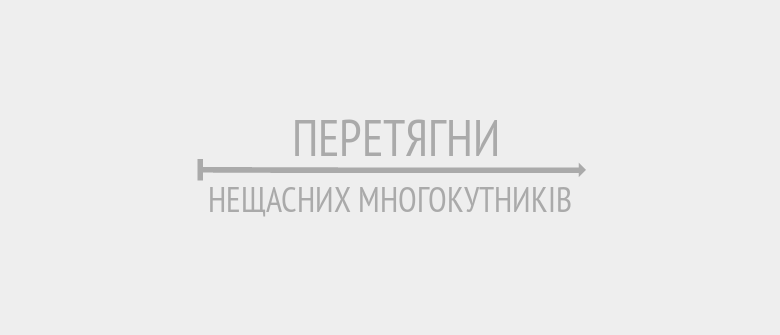
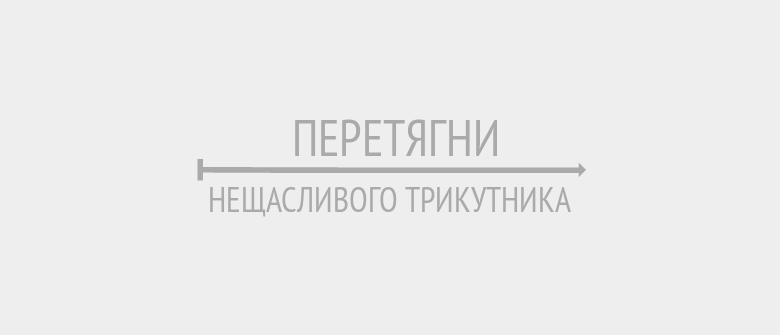
Text editing fixes

Changed region(s): [[0.3692, 0.5373, 0.7385, 0.6567]]

diff --git a/polygons/index.html b/polygons/index.html
@@ -6,19 +6,19 @@
 
 	<!-- Place this data between the <head> tags of your website -->
 	<title>Парабола многокутинків - ігровий пост про форму суспільства</title>
-	<meta name="description" content="Ігровий пост про те, як незлі вчинки можуть зробити світ злим." />
+	<meta name="description" content="Ігровий пост про те, як не злі вчинки можуть зробити світ злим." />
 	<link rel="icon" type="image/png" href="favicon.png">
 
 	<!-- Schema.org markup for Google+ -->
 	<meta itemprop="name" content="Парабола многокутників">
-	<meta itemprop="description" content="Ігровий пост про те, як незлі вчинки можуть зробити світ злим.">
+	<meta itemprop="description" content="Ігровий пост про те, як не злі вчинки можуть зробити світ злим.">
 	<meta itemprop="image" content="http://zlira.github.io/polygons/social/thumbnail.png">
 
 	<!-- Twitter Card data -->
 	<meta name="twitter:card" content="summary_large_image">
 	<meta name="twitter:site" content="@ncasenmare">
 	<meta name="twitter:title" content="Парабола многокутників">
-	<meta name="twitter:description" content="Ігровий пост про те, як незлі вчинки можуть зробити світ злим.">
+	<meta name="twitter:description" content="Ігровий пост про те, як не злі вчинки можуть зробити світ злим.">
 	<meta name="twitter:creator" content="@vihartvihart">
 	<meta name="twitter:image" content="http://zlira.github.io/polygons/social/thumbnail.png">
 
@@ -27,7 +27,7 @@
 	<meta property="og:type" content="website">
 	<meta property="og:url" content="http://zlira.github.io/polygons/">
 	<meta property="og:image" content="http://zlira.github.io/polygons/social/thumbnail.png">
-	<meta property="og:description" content="Ігровий пост про те, як незлі вчинки можуть зробити світ злим.">
+	<meta property="og:description" content="Ігровий пост про те, як не злі вчинки можуть зробити світ злим.">
 	<meta property="og:site_name" content="Парабола многокутників">
 
 	<!-- CSS -->
@@ -53,7 +53,7 @@
 	<div class="chapter">
 
         <!-- This is a story of how harmless choices can make a harmful world. -->
-		<p><strong>Це історія про те, як незлі вчинки можуть зробити світ злим.</strong></p>
+		<p><strong>Це історія про те, як не злі вчинки можуть зробити світ злим.</strong></p>
 		<p>
             <!-- These little cuties are 50% Triangles, 50% Squares, and 100% slightly shapist. -->
             Серед цих маленьких симпатяг 50% Трикутні, 50% Квадратні і 100% трішечки шейписти.
@@ -67,11 +67,11 @@
 
 		<p>
             <!-- You can only move them if they're unhappy with their immediate neighborhood. -->
-            Ти можеш тягати їх тільки, якщо вони нещасні через своїх близьких сусідів.
+            Ти можеш тягати їх тільки, якщо вони незадоволені своїми безпосередніми сусідами.
 
             <!-- Once they're OK where they are, <i>you can't move them until they're unhappy with their neighbors again</i>. -->
             Як тільки оточення стає многокутнику стерпним, ти 
-            <i>втрачаєш можливість його тягати, аж поки його сусіди знову не зміняться на незадовільних</i>.
+            <i>втрачаєш можливість його тягати, аж поки його сусіди знову не перестануть йому подобатися</i>.
 
             <!-- They've got one, simple rule: -->
             У них є одне просте правило:
@@ -102,7 +102,7 @@
             Ну…
 		</p>
 		<div class="instruction">
-			перетягуй нещасних многокутників, поки всім не стане нормально:<br>
+			перетягуй нещасливих многокутників, поки всім не стане нормально:<br>
 			<span style="font-size:18px">(не думай над цим забагато. просто переставляй їх на випадкові місця.)</span>
 		</div>
 
@@ -117,7 +117,7 @@
 	<div class="chapter"> 
 		<p>
             <!-- And... our shape society becomes super segregated. Daaaaang. -->
-            І… наше суспільство фігур стало супер сегрегованим. Чооорт.
+            І… наше суспільство фігур стало суперсегрегованим. Чооорт.
 		</p>
 		<p>
             <!-- Sometimes a neighborhood just becomes square, -->
@@ -125,7 +125,7 @@
             <!-- and it's not their fault if no triangles wanna stick around. -->
             його жителі не винні, що трикутники там не затримуються.
             <!-- And a triangular neighborhood would welcome a square, but -->
-            Та й трикутні райони зраділи би квадрату, що вони зроблять,
+            Та й трикутні райони зраділи би квадрату, але що вони зроблять,
             <!-- they can't help it if squares ain't interested. -->
             коли квадрати до них не йдуть.
 		</p>
@@ -189,7 +189,7 @@
 	<div class="chapter">
 		<p>
             <!-- Notice how much more segregated things become, when you increase the bias beyond 33%. -->
-            Зауваж, як різко зростає сегрегація, якщо підняти упередження вище ніж 33%.
+            Зауваж, як різко зростає сегрегація, якщо підняти упередження вище, ніж 33%.
             <!-- What if the threshold was at 50%? -->
             А що, якщо поріг буде 50%?
             <!-- Seems reasonable for a shape to prefer not being in the minority... -->
@@ -205,7 +205,7 @@
 
 		<p>
             <!-- So yeah, just turn everyone's bias down to zero, right? -->
-            То, в чому проблема, достатньо просто взяти всіх упередження і знизити до нуля, так?
+            То, в чому проблема, достатньо просто взяти упередження кожного і знизити до нуля, так?
             <!-- Haha, NOPE. The real world doesn't start anew with a random shuffling of citizens every day. -->
             Xa-ха, НІ! У справжньому світі кожен день не починається із випадкової мішанини громадян.
             <!-- Everyday, you're not shuffling. -->
@@ -229,7 +229,7 @@
             <!-- See what <i>doesn't</i> happen?  -->
             Бачиш, чого <i>не</i> стається?
             <!-- No change. No mixing back together. -->
-            Нічого не стається. Ніхто не перемішується назад докупи.
+            Нічого не стається. Ніхто не перемішується назад.
             <!--In a world where bias ever existed, being unbiased isn't enough!-->
             У світі, де існувало упередження, недостатньо бути неупередженим!
             <!-- We're gonna need active measures. -->
@@ -268,7 +268,7 @@
             <!-- So, fellow shapes, remember it's not about triangles vs squares, -->
             Тож, дорогі фігури, пам'ятайте: ця історія не про трикутники і квадрати,
             <!-- it's about deciding what we want the world to look like, and settling for no less. -->
-            a про те, аби вирішити, у якому світі ми хочемо жити і не погоджуватися на менше.
+            a про те, аби вирішити, у якому світі ми хочемо жити, і не погоджуватися на менше.
 		</p>
 		<p style="text-align:center">
 			<b>
@@ -317,7 +317,7 @@
 			<br>
 			<!--Micromotives, macrobehaviour...-->
             <!-- When someone says a culture is shapist, they're not saying the <i>individuals</i> in it are shapist. -->
-            Коли хтось каже, що культура шейпистьска, вони не конче мають на увазі, що <i>окремі люди</i> шейписти.
+            Коли хтось каже, що культура шейпистська, вони не конче мають на увазі, що <i>окремі люди</i> шейписти.
             <!-- They're not attacking you personally. -->
             Вони не нападають на тебе особисто.
 		</p>
@@ -337,9 +337,9 @@
             <!-- If small biases created the mess we're in, small anti-biases might fix it. -->
             Якщо маленькі упередження створили болото, в якому ми бабраємося, маленькі антиупередження можуть нас з нього витягнути.
             <!-- Look around you. Your friends, your colleagues, that conference you're attending. -->
-            Роззирнися довкола. Глянь на своїх друзів, колег, на ту конференцію, куди ти йдеш.
+            Роззирнися довкола. Глянь на своїх друзів, колег, на конференцію, на яку йдеш.
             <!-- If you're all triangles, you're missing out on some amazing squares in your life - -->
-            Якщо усі ви трикутники, то в своєму житті ви нехтуєте скількома неймовірними квадратами.
+            Якщо усі ви — трикутники, то скількома неймовірними квадратами ви нехтуєте у своєму житті?
             <!-- that's unfair to everyone. Reach out, beyond your immediate neighbors. -->
             Це нечесно щодо всіх. Простягни руку і тим, хто за межами твого найближчого кола.
 		</p>
@@ -385,12 +385,12 @@
                 <!-- Male-Female Differences: A Computer Simulation</a> -->
                 «Відмінність чоловік-жінка: комп'ютерна симуляція»</a>
                 <!-- shows how a small gender bias compounds as you move up the corporate ladder. -->
-                демонструє, як невеличкі гендерні упередження накопичуються по мірі підйому по кар'єрній драбині.
+                демонструє, як невеличкі гендерні упередження накопичуються зі сходженням кар'єрною драбиною.
 				<a target="_blank" href="http://iangent.blogspot.com/2013/10/the-petrie-multiplier-why-attack-on.html">
                 <!-- The Petrie Multiplier</a> -->
                 «Мультиплікатор Петрі»</a>
                 <!-- shows why an attack on sexism in tech is <i>not</i> an attack on men. -->
-                показує, що бій сексизму в тех індустрії — це не бій чоловікам.
+                показує, що боротьба проти сексизму в тех індустрії — це не боротьба проти чоловіків.
 
 				<br><br>
 
@@ -498,6 +498,9 @@
 					<a target="_blank" href="http://snap.berkeley.edu/snapsource/snap.html#present:Username=jens&ProjectName=Parable">Polygons in Snap!</a>,
 					<a target="_blank" href="https://youtu.be/v02DTSSTc5k">Playthrough Video</a>
 
+					<br><br>
+					<b>Переклала:</b><br>
+					Олеся Гриджук з допомогою Оксани Курило
 				</span>
 
 			</div>

diff --git a/polygons/play/outro/outro.html b/polygons/play/outro/outro.html
@@ -63,14 +63,14 @@
 		<div id="intro_shading"></div>
 		<div id="share_text">
 
-			ПОДІЛИТИСЬ:<span style="position:relative;top:-5px">:</span>
+			ПОДІЛИТИСЬ<span style="position:relative;top:-5px">:</span>
 
-			<a data-popup-url="https://www.facebook.com/sharer.php?u=http%3A%2F%2Fzlira.github.io%2Fpolygons%2F&amp;t=Парабола многокутників: ігровий пост про те, як незлі вчинки можуть зробити світ злим."
+			<a data-popup-url="https://www.facebook.com/sharer.php?u=http%3A%2F%2Fzlira.github.io%2Fpolygons%2F&amp;t=Парабола многокутників: ігровий пост про те, як не злі вчинки можуть зробити світ злим."
 				data-popup-width="626" data-popup-height="436"
 				onclick="return sharePopup.call(this,event);">
 				<img src="icons/facebook.png" width="60" height="60"/></a>
 
-			<a data-popup-url="https://twitter.com/share?url=http%3A%2F%2Fzlira.github.io%2Fpolygons%2F&amp;text=Парабола многокутників: ігровий пост про те, як незлі вчинки можуть зробити світ злим. Від @vihartvihart і @ncasenmare."
+			<a data-popup-url="https://twitter.com/share?url=http%3A%2F%2Fzlira.github.io%2Fpolygons%2F&amp;text=Парабола многокутників: ігровий пост про те, як не злі вчинки можуть зробити світ злим. Від @vihartvihart і @ncasenmare."
 				data-popup-width="640" data-popup-height="400"
 				onclick="return sharePopup.call(this,event);">
 				<img src="icons/twitter.png" width="60" height="60"/></a>
@@ -80,7 +80,7 @@
 				onclick="return sharePopup.call(this,event);">
 				<img src="icons/googleplus.png" width="60" height="60"/></a>
 
-			<a data-popup-url="https://www.tumblr.com/share/link?url=http%3A%2F%2Fzlira.github.io%2Fpolygons%2F&amp;name=Парабола многокутників&amp;description=Ігровий пост про те, як незлі вчинки можуть зробити світ злим."
+			<a data-popup-url="https://www.tumblr.com/share/link?url=http%3A%2F%2Fzlira.github.io%2Fpolygons%2F&amp;name=Парабола многокутників&amp;description=Ігровий пост про те, як не злі вчинки можуть зробити світ злим."
 				data-popup-width="446" data-popup-height="430"
 				onclick="return sharePopup.call(this,event);">
 				<img src="icons/tumblr.png" width="60" height="60"/></a>

diff --git a/polygons/translator/translator.html b/polygons/translator/translator.html
@@ -120,7 +120,7 @@
             for (var y = 100; y < 200; y += 80)
                 tapeRect(ctx, 220, y, 340, 60);
             putText(ctx, 292, 156, 50, "#aaa", "PT Sans Narrow", "ПЕРЕТЯГНИ");
-            putText(ctx, 208, 212, 34, "#aaa", "PT Sans Narrow", "НЕЩАСНИХ МНОГОКУТНИКІВ");
+            putText(ctx, 208, 212, 34, "#aaa", "PT Sans Narrow", "НЕЩАСЛИВОГО ТРИКУТНИКА");
         })
     </script>
 

diff --git a/polygons/play/mini/mini_unhappy.html b/polygons/play/mini/mini_unhappy.html
@@ -7,7 +7,7 @@
 	<canvas id="canvas"></canvas>
 	<br>
 	<div style="text-align:center; margin:10px 0; color:#777; font-size:15px">
-		<span style="color:#dd3939">нещасний:</span>
+		<span style="color:#dd3939">нещасливий:</span>
         тільки 1 із 6 сусідів схожий на мене. менше ніж &frac13;.
         <!-- only 1 out of 6 neighbors are like me. less than 1/3. -->
 	</div>
